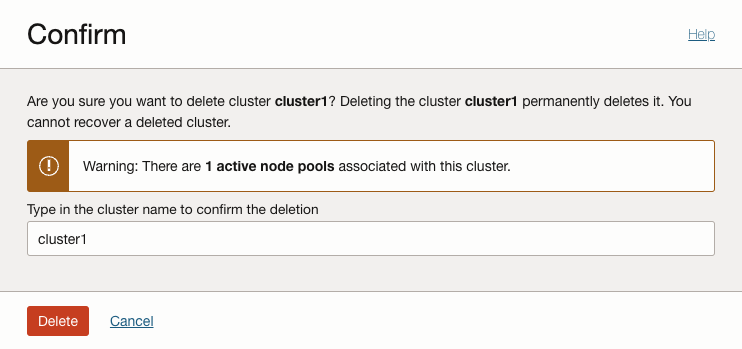
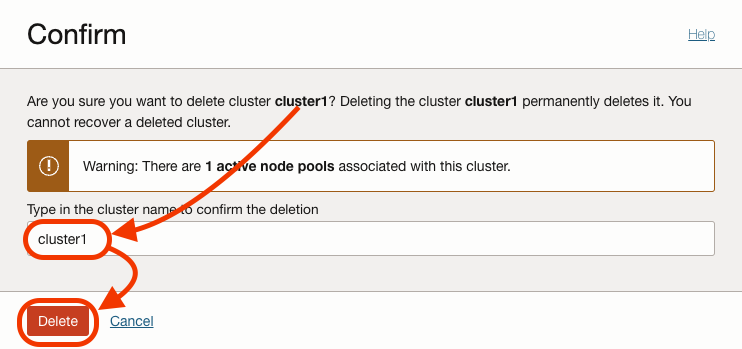
Add WMS ID 11378

diff --git a/safethewildlife/app-modernization/ci/ci.md b/safethewildlife/app-modernization/ci/ci.md
@@ -2,19 +2,24 @@
 
 ## Introduction
 
-In this lab, we will create container images for the application components and deploy them to the Container Instances service. Container Instances is an excellent tool for running containerized applications, without the need to manage any underlying infrastructure. Just deploy and go.
+In this lab, we will create container images for the application components and deploy them to the [OCI Container Instances](https://www.oracle.com/cloud/cloud-native/container-instances/) service. Container Instances is an excellent tool for running containerized applications, without the need to manage any underlying infrastructure. Just deploy and go.
 
-To help streamline the process, you'll use a custom script to create and publish container images to the OCI Container Registry. Container Registry makes it easy to store, share, and managed container images. Registries can be private (default) or public.
+To help streamline the process, you'll use a custom script to create and publish container images to the [OCI Container Registry](https://www.oracle.com/cloud/cloud-native/container-registry/). Container Registry makes it easy to store, share, and managed container images. Registries can be private (default) or public.
 
 Estimated Lab Time: 15 minutes
 
+Watch the video below for a quick walk-through of this lab.
+[AppDev Multiplayer Lab 2](videohub:xxx)
+
 ### Prerequisites
 
-* An Oracle Free Tier or Paid Cloud Account
+- An active Oracle Free Tier (with remaining free credits) or a Paid Oracle Cloud Account.
+- Be an OCI administrator in your account (in Free Tier, you are an administrator by default).
+- Finish the previous Lab.
 
 ## Task 1: Prepare the environment
 
-1. Run the script to set the environment. This script will
+1. Run the script to set the environment in the Cloud Shell. This script will:
 
     - check dependencies
     - create self-signed certificates, if needed
@@ -25,9 +30,9 @@ Estimated Lab Time: 15 minutes
     <copy>npx zx scripts/setenv.mjs</copy>
     ```
 
-  ![setenv-command](./images/setenv-command.png) 
+  ![setenv-command](./images/setenv-command.png)
 
-2. The script will ask for the following information. At _`Autonomous Database Compartment Name`_ you just type _**ENTER**_ to select the root compartment. If you are familiar with OCI compartments, then feel free to pick an existing compartment name.
+2. The script will ask for the following information. At _`Autonomous Database Compartment Name`_ you just press _**ENTER**_ to select the root compartment. If you are familiar with [OCI compartments](https://docs.oracle.com/en-us/iaas/Content/Identity/Tasks/managingcompartments.htm), then feel free to pick an existing compartment name.
 
   ![Setenv compartment](./images/setenv-compartment.png)
 
@@ -39,13 +44,13 @@ Estimated Lab Time: 15 minutes
 
   ![Setenv ADB name](./images/setenv-adb-name.png)
 
-1. At _`Autonomous Database password`_ you can use the _`Suggested Password`_ in yellow. It is a password generated on the fly by `openssl` for you.
+4. At _`Autonomous Database password`_ you can use the _`Suggested Password`_ in yellow. It is a password generated on the fly by `openssl` for you.
 
     > NOTE: your password will be different to the one on the picture.
 
   ![Setenv ADB password](./images/setenv-adb-password.png)
 
-2. Create and publish the **`server`** container image.
+5. Create and publish the **`server`** container image. It might take up to 5 minutes.
 
     ```
     <copy>npx zx scripts/release.mjs server</copy>
@@ -53,39 +58,43 @@ Estimated Lab Time: 15 minutes
 
   ![release server](./images/release-server.png)
 
-3. Create and publish the **`web`** container image.
+6. Create and publish the **`web`** container image. It might take up to 5 minutes.
 
     ```
     <copy>npx zx scripts/release.mjs web</copy>
     ```
 
-  ![release web](./images/release-web.png) 
+  ![release web](./images/release-web.png)
 
-4. Run the `ci.mjs` command that will give you information about how to create your container instance.
+7. Run the `ci.mjs` command that will give you information about how to create your container instance.
 
     ```
     <copy>npx zx scripts/ci.mjs</copy>
     ```
 
-  ![ci command](./images/ci-command.png) 
+  ![ci command](./images/ci-command.png)
 
-5. Copy the yellow command, paste it on Cloud Shell, and run it.
+    > _**ci.mjs**_ Is a [Google ZX](https://github.com/google/zx) script. We use ZX because if you don't know Bash Shell programming, it is based on JavaScript and it is easy to read. If you know Bash Shell then, ZX is just a wrap on plain Bash Shell. The script will call several [OCI CLI](https://docs.oracle.com/en-us/iaas/Content/API/Concepts/cliconcepts.htm) commands to get information from OCI Container Instances. The commands are complex enough that this script help you out.
 
-  ![ci create command](./images/ci-create-command.png) 
+8. Copy the yellow command, paste it on Cloud Shell, and run it.
 
-6. In the Web UI, you can navigate to **`Developer Services`** -> **`Container Instances`** to watch the progress of the deployment.
+  ![ci create command](./images/ci-create-command.png)
 
-  ![menu ci](./images/menu-ci.png) 
+9. In the Web UI, you can navigate to **`Developer Services`** -> **`Container Instances`** to watch the progress of the deployment.
 
-7. You will see the list of container instances. The one you created will be in `creating` state, or maybe already in `Active` state.
+  ![menu ci](./images/menu-ci.png)
 
-  ![ci list](./images/ci-list.png) 
+10. You will see the list of container instances. The one you created will be in `creating` state, or maybe already in `Active` state.
 
-8. Click on the `oci-Multiplayer` container instance.
+  ![ci list](./images/ci-list.png)
 
-  ![ci list click](./images/ci-list-click.png) 
+    > NOTE: if you selected your own comparment, make sure you select the compartment on the left dropdown.
 
-9. Inside the container instance, on the left-side menu, you can click `Containers` and, you will see the two containers.
+11. Click on the `oci-Multiplayer` container instance.
+
+  ![ci list click](./images/ci-list-click.png)
+
+12. Inside the container instance, on the left-side menu, you can click `Containers` and, you will see the two containers, `WebContainer` and `ServerContainer`.
 
   ![ci container list](images/ci-container-list.png)
 
@@ -99,11 +108,11 @@ In this second and final task, you will add the Container Instance private IP ad
     <copy>npx zx scripts/tfvars.mjs ci</copy>
     ```
 
-2. During the execution of the script, you will have to answer a few questions. The first one is the _CI Deployment Compartment Name_. You just type _**ENTER**_ to select the root compartment. If you are familiar with OCI compartments, then feel free to pick an existing compartment name.
+2. During the execution of the script, you will have to answer a few questions. The first one is the _CI Deployment Compartment Name_. You just press _**ENTER**_ to select the root compartment. If you are familiar with [OCI compartments](https://docs.oracle.com/en-us/iaas/Content/Identity/Tasks/managingcompartments.htm), then feel free to pick an existing compartment name.
 
   ![tf ci compartment](images/tf-ci-compartment.png)
 
-3. The second one will be the Private IP address. Locate the private IP address for your container instance on the OCI web console.
+3. The second one will be the Private IP address. Copy the private IP address for your container instance on the OCI web console.
 
   ![tf ci private IP](images/tf-ci-private-ip.png)
 
@@ -125,7 +134,7 @@ In this second and final task, you will add the Container Instance private IP ad
 
   ![tf init](./images/tf-init.png)
 
-7. Run Terraform apply to start creating the resources.
+7. Run Terraform apply to start creating the resources. It might take up to 7 minutes.
 
     ```
     <copy>terraform apply -auto-approve</copy>
@@ -137,7 +146,7 @@ In this second and final task, you will add the Container Instance private IP ad
 
   ![tf-output](images/tf-output.png)
 
-9. Paste it on a browser and try the Container Instance deployment.
+9. Paste the Load Balancer public IP address on a browser tab and try the Container Instance deployment.
 
   ![game](images/game.png)
 

diff --git a/safethewildlife/app-modernization/vm/vm.md b/safethewildlife/app-modernization/vm/vm.md
@@ -2,20 +2,23 @@
 
 ## Introduction
 
-Terraform is an Open Source tool to deploy resources in the cloud using code. This method is typically referred to as Infrastructure as Code (IaC). Terraform configuration is declarative; you simply define what you want in the Oracle Cloud and it ensures the resources are created to your specifications.
+[Terraform](https://www.terraform.io/) is an Open Source tool to deploy resources in the cloud using code. This method is typically referred to as Infrastructure as Code (IaC). Terraform configuration is declarative; you simply define what you want in the Oracle Cloud and it ensures the resources are created to your specifications.
 
-Ansible is an Open Source tool that provides automation in software deployment. For this workshop, we leverage the configuration management functionality. Once Terraform deploys the infrastructure, Ansible will establish a remote SSH connection to the servers and apply the requisite configuration (app install, file downloads, configuration settings, etc.)
+[Ansible](https://www.ansible.com/) is an Open Source tool that provides automation in software deployment. For this workshop, we leverage the configuration management functionality. Once Terraform deploys the infrastructure, Ansible will establish a remote SSH connection to the servers and apply the requisite configuration (app install, file downloads, configuration settings, etc.)
 
 Estimated Lab Time: 15 minutes
 
+Watch the video below for a quick walk-through of this lab.
+[AppDev Multiplayer Lab 1](videohub:xxx)
+
 ### Objectives
 
-In this lab, you will complete the process of deploying the first form of the Three.js app to the Oracle Cloud. The deployment process utilizes Terraform and Ansible, however, we've provided a script to help streamline the process.
+In this lab, you will complete the process of deploying the first form of the [Three.js](https://threejs.org/) app to the [Oracle Cloud](https://www.oracle.com/cloud/). The deployment process utilizes Terraform and Ansible, however, we've provided a script to help streamline the process.
 
 ### Prerequisites
 
-* An Oracle Free Tier or Paid Cloud Account
-
+- An active Oracle Free Tier (with remaining free credits) or a Paid Oracle Cloud Account.
+- Be an OCI administrator in your account (in Free Tier, you are an administrator by default).
 
 ## Task 1: Cloud Shell
 
@@ -43,14 +46,13 @@ In this lab, you will complete the process of deploying the first form of the Th
     <copy>npx zx scripts/tfvars.mjs vm</copy>
     ```
 
-6. During the execution of the script, you will have to answer a question. The _VM Deployment Compartment Name_. You just type _**ENTER**_ to select the root compartment. If you are familiar with OCI compartments, then feel free to pick an existing compartment name.
+6. During the execution of the script, you will have to answer a question. The _VM Deployment Compartment Name_. You just press _**ENTER**_ to select the root compartment. If you are familiar with [OCI compartments](https://docs.oracle.com/en-us/iaas/Content/Identity/Tasks/managingcompartments.htm), then feel free to pick an existing compartment name.
 
   ![TFvars vm command](images/tfvars-vm-command.png)
 
 ## Task 2: Initiate Deployment
 
-1. Run the deployment script which is stored in the _`scripts`_ folder.
-
+1. Run the deployment script which is stored in the _`scripts`_ folder. It might take up to 15 minutes.
 
     ```
     <copy>./scripts/start_VM.sh</copy>
@@ -72,7 +74,7 @@ In this lab, you will complete the process of deploying the first form of the Th
 
     ![Start vm Output](images/start_vm_output.png)
 
-6. Open a new browser tab, and check it out.
+6. Open a new browser tab, paste the load balancer public IP address (_`lb_public_ip`_) and check it out.
 
     ![Game landing](images/game-landing.png)
 

diff --git a/safethewildlife/app-modernization/intro/intro.md b/safethewildlife/app-modernization/intro/intro.md
@@ -2,31 +2,28 @@
 
 ## The power of Cloud Native on Oracle Cloud
 
-In this workshop, you will learn how to deploy a simple Three.js application to the cloud, then iterate through the modernization process to enhance the application and ultimately deploy it to Kubernetes.
+In this workshop, you will learn how to deploy a simple [Three.js](https://threejs.org/) application to the cloud, then iterate through the modernization process to enhance the application and ultimately deploy it to [Kubernetes](https://kubernetes.io/).
 
 When building and deploying applications in the cloud it is important to understand the capabilities provided by the cloud and learn to align those with the requirements of your application. Whether starting with enhancing a simple application, or deconstructing a legacy monolith, there are a variety of choices to help right-size your solution.
 
 ![Save The Wildlife Banner](./images/banner.png)
 
-Estimated Lab Time: 60 minutes
+Estimated Lab Time: 2 minutes
 
 ### Objectives
 In this workshop, you will:
 
-- Deploy a simple Three.js application to OCI Compute with Terraform, using Ansible to provide code and configuration.
-- Create container images of the application components and migrate them to OCI Container Images.
-- Add Redis and Nginx controller to your application to support scalability, while deploying to Oracle Container Engine for Kubernetes (OKE).
-
-Watch the video below for a quick walk-through of the lab.
-[AppDev Multiplayer Content](videohub:xxx)
+- Deploy a simple [Three.js](https://threejs.org/) application to OCI Compute with [Terraform](https://www.terraform.io/), using [Ansible](https://www.ansible.com/) to provide code and configuration.
+- Create container images of the application components and migrate them to [OCI Container Images](https://www.oracle.com/cloud/cloud-native/container-instances/).
+- Add [Redis](https://redis.com/) and [Nginx](https://www.nginx.com/) controller to your application to support scalability, while deploying to [Oracle Container Engine for Kubernetes (OKE)](https://www.oracle.com/cloud/cloud-native/container-engine-kubernetes/).
 
 ### Prerequisites
 
-- An Oracle Free Tier or Paid Cloud Account
-- [Familiarity with the OCI console](https://docs.us-phoenix-1.oraclecloud.com/Content/GSG/Concepts/console.htm)
-- Basic familiarity with app containerization
-- [Basic familiarity with OCI Container Instances](https://www.oracle.com/cloud/cloud-native/container-instances/)
-- [Basic familiarity with OKE](https://www.oracle.com/cloud/cloud-native/container-engine-kubernetes/)
+You must have an OCI account. [Click here](https://www.oracle.com/cloud/free/?source=:ow:o:s:nav::DevoGetStarted&intcmp=:ow:o:s:nav::DevoGetStarted) to create a new cloud account.
+
+If you are using an Oracle Free Tier, it must be active and with remaining free credits.
+
+You must be an OCI administrator in your account (in Free Tier, you are an administrator by default).
 
 You may now [proceed to the next lab](#next).
 

diff --git a/safethewildlife/app-modernization/cleanup/cleanup.md b/safethewildlife/app-modernization/cleanup/cleanup.md
@@ -6,9 +6,14 @@ In this lab, you are going to destroy all the resources you have created on Orac
 
 Estimated Lab Time: 10 minutes
 
+Watch the video below for a quick walk-through of this lab.
+[AppDev Multiplayer Lab 4](videohub:xxx)
+
 ### Prerequisites
 
-* An Oracle Free Tier, Paid or LiveLabs Cloud Account
+- An active Oracle Free Tier (with remaining free credits) or a Paid Oracle Cloud Account.
+- Be an OCI administrator in your account (in Free Tier, you are an administrator by default).
+- Finish the previous Lab.
 
 ## Task 1: Kubernetes
 
@@ -30,7 +35,7 @@ Estimated Lab Time: 10 minutes
 
 4. Confirm the deletion by typing the name of the cluster, in bold at the top. Click **Delete**.
 
-  ![oke delete button](./images/oke-delete-button.png)
+  ![oke delete button](./images/oke-delete-confirm.png)
 
 ## Task 2: VMs and Container Instances.
 
@@ -46,9 +51,9 @@ Estimated Lab Time: 10 minutes
     <copy>terraform destroy -auto-approve</copy>
     ```
 
-  ![tf ci destroy](./images/tf-ci-destroy.png) 
+  ![tf ci destroy](./images/tf-ci-destroy.png)
 
-  ![tf ci destroy completed](./images/tf-ci-destroy-completed.png) 
+  ![tf ci destroy completed](./images/tf-ci-destroy-completed.png)
 
 3. Change the directory back to the root of the project with the following command:
 
@@ -62,7 +67,7 @@ Estimated Lab Time: 10 minutes
     <copy>npx zx scripts/ci.mjs</copy>
     ```
 
-  ![ci](./images/ci.png) 
+  ![ci](./images/ci.png)
 
 5. Copy and paste on the console the second yellow command to delete the container instance.
 
@@ -70,11 +75,11 @@ Estimated Lab Time: 10 minutes
 
 6. On the list of container instances, you will see the id of your container instance. Replace `CONTAINER_INSTANCE_OCID` with the id and run the command.
 
-  ![ci paste](./images/ci-paste.png) 
+  ![ci paste](./images/ci-paste.png)
 
 7. Confirm that you are sure you want to delete this resource by typing `y`.
 
-  ![ci yes](./images/ci-yes.png) 
+  ![ci yes](./images/ci-yes.png)
 
 8. Clean also the infrastructure from Lab 1 by running this command:
 
@@ -86,7 +91,7 @@ Estimated Lab Time: 10 minutes
 
 1. When Terraform completes the `destroy` you will get this green message.
 
-  ![tf destroy completed](./images/tf-destroy-completed.png)  
+  ![tf destroy completed](./images/tf-destroy-completed.png) 
 
 ## Task 3: Autonomous Database and Networking
 

diff --git a/safethewildlife/app-modernization/k8s/k8s.md b/safethewildlife/app-modernization/k8s/k8s.md
@@ -1,11 +1,20 @@
 # Enhance the application architecture
 
 ## Introduction
-In this lab, we will enhance our application to continue moving toward a more Cloud Native design. For this, an autonomous database will be deployed, new application components will be added, and the entire solution will be deployed to Oracle Container Engine for Kubernetes (OKE).
+In this lab, we will enhance our application to continue moving toward a more Cloud Native design. For this, an [Autonomous Database](https://www.oracle.com/autonomous-database/) will be deployed, new application components will be added, and the entire solution will be deployed to [Oracle Container Engine for Kubernetes (OKE)](https://www.oracle.com/cloud/cloud-native/container-engine-kubernetes/).
 
 ![OKE Logo](images/oke.png)
 
 Estimated Lab Time: 15 minutes
+
+Watch the video below for a quick walk-through of this lab.
+[AppDev Multiplayer Lab 3](videohub:xxx)
+
+### Prerequisites
+
+- An active Oracle Free Tier (with remaining free credits) or a Paid Oracle Cloud Account.
+- Be an OCI administrator in your account (in Free Tier, you are an administrator by default).
+- Finish the previous Lab.
 
 ### Objectives
 
@@ -77,7 +86,7 @@ In this lab, you will complete the process of deploying the application on a Kub
 
   ![menu oke](./images/menu-oke.png)
 
-2. Wait until the cluster is `Active`.
+2. Wait until the cluster is `Active`. It might take up to 10 minutes.
 
   ![oke list](./images/oke-list.png)
 
@@ -127,7 +136,7 @@ In this lab, you will complete the process of deploying the application on a Kub
 
   ![kubectl apply](./images/kubectl-apply.png)
 
-11. Verify the pods were deployed (it might take a minute or so for all pods to come online).
+11. Verify the pods were deployed (it might take a minute or so for all pods to come online). Re-run the command every couple of minutes until all pods are ready.
 
     ```
     <copy>kubectl get pods</copy>
